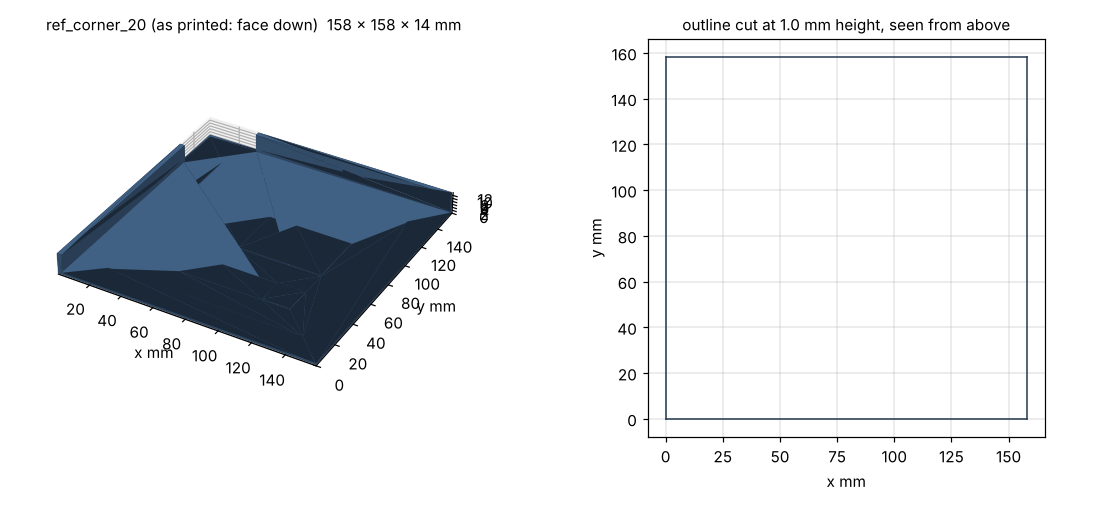
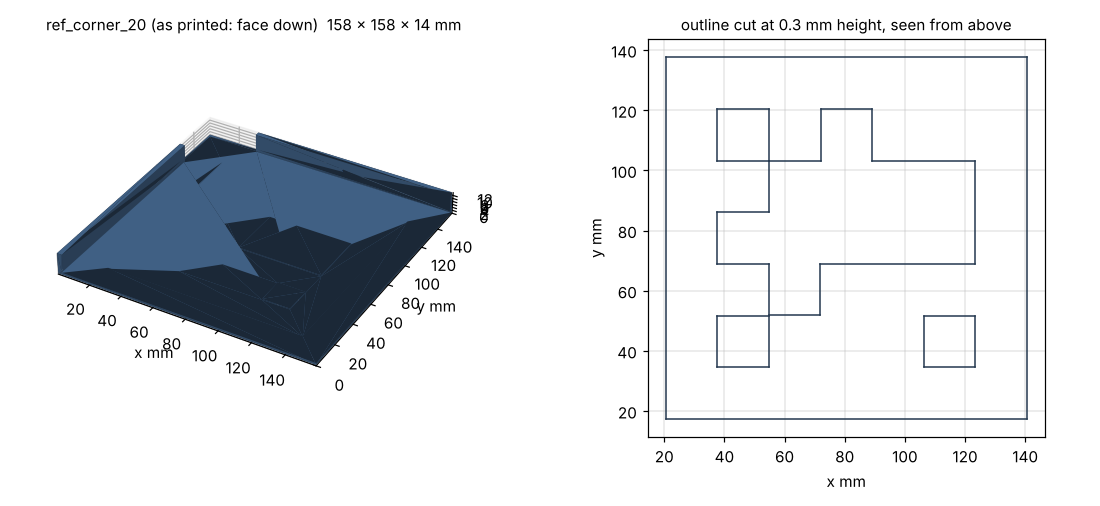
Risk fixes and corner tags, part 3: report e02-nov03-risk-fixes-corner-tags (premise, what was built, sizing, fit and run tables, print check, Nick's steps, questions, two sweeps), 20 pictures with index lines, time-tracker row; fixes from the pictures: Measure's result hidden by a null in the simul
Claude-Session: https://claude.ai/code/session_016gn8BDw2z1DBU9KvexE4En

diff --git a/tools/fleet/mission_control.html b/tools/fleet/mission_control.html
@@ -655,7 +655,7 @@ function camerasTable() {
       <button class="p" id="tmeasure">Measure</button>
       ${r ? `<div style="margin-top:10px"><div class="kpis"><div class="kpi"><b>${r.size_cm[0].toFixed(1)} x ${r.size_cm[1].toFixed(1)}</b><span>table (cm)</span></div><div class="kpi"><b>${Object.keys(r.stickers || {}).length}</b><span>production points</span></div><div class="kpi"><b>${r.reads}</b><span>tag reads</span></div></div>
         <ul class="small">${(r.words || []).map(w => `<li style="${/WARNING|DISAGREE|NOT/.test(w) ? "color:var(--warn)" : ""}">${esc(w)}</li>`).join("")}</ul>
-        ${r.sim_truth ? `<p class="small muted">Simulator truth: floor error median ${esc(Object.entries(r.sim_truth).filter(([k, v]) => typeof v === "object").map(([k, v]) => k + " " + v.median_cm + " cm (worst " + v.worst_cm + ")").join(", "))}; stickers worst ${esc(r.sim_truth.stickers_worst_cm)} cm.</p>` : ""}</div>` : ""}</div>
+        ${r.sim_truth ? `<p class="small muted">Simulator truth: floor error median ${esc(Object.entries(r.sim_truth).filter(([k, v]) => v && typeof v === "object" && v.median_cm != null).map(([k, v]) => k + " " + v.median_cm + " cm (worst " + v.worst_cm + ")").join(", "))}; stickers worst ${esc(r.sim_truth.stickers_worst_cm ?? "-")} cm${r.sim_truth.side_tags_along_off_cm ? "; side tags along their edges off by " + esc(Object.entries(r.sim_truth.side_tags_along_off_cm).map(([k, v]) => k + " " + v + " cm").join(", ")) : ""}.</p>` : ""}</div>` : ""}</div>
     <div class="card"><h2>Measurements (checks, optional)</h2><p class="small muted">Typed values are compared with the cameras' own measure, never silently averaged. The site's table size is filled in.</p>
       <div class="row"><label class="lbl">Table length <input id="tl" class="n" value="${esc(tb.length_cm ?? "")}"> cm</label><label class="lbl">width <input id="tw" class="n" value="${esc(tb.width_cm ?? "")}"> cm</label></div>
       ${rc ? `<div class="row">${Object.entries(rc.sides || {}).map(([k, v]) => `<label class="lbl">Side tag ${v}'s middle, from corner ${k} along the edge <input id="tal_${v}" class="n" value="${esc(((T.typed || {}).along || {})[v] ?? "")}"> cm</label>`).join("")}</div>` : ""}

diff --git a/tools/pi/selfcheck.py b/tools/pi/selfcheck.py
@@ -154,8 +154,10 @@ def check_site(R):
         R.add("PASS" if h is not None else "WARN", "roof height", "%s cm" % h if h is not None else
               "not measured yet (6.0 cm placeholder): measure table to tag face, send it to Claude")
         rt = s.get("ref_tags") or {}
+        import ref_tags as RT
         R.add("PASS" if rt.get("use", True) and rt else "WARN", "reference tags",
-              "%s ids %s, %s cm; corner clicking %s" % (rt.get("family", "tag25h9"), rt.get("ids"), rt.get("tag_cm"),
+              "%s ids %s, %s cm; corner clicking %s" % (rt.get("family", "tag25h9"),
+                                                      ", ".join(str(i) for i in RT.ids(rt)), rt.get("tag_cm"),
                                                       "ON" if s.get("corner_clicks", True) else "off")
               if rt else "none in the site profile (corners are clicked by hand)")
     return s
@@ -228,13 +230,19 @@ def check_cameras(R, site=None):
               v["words"] + ". Name it: python3 tools/pi/camnames.py --set %s \"<name>\" <port>" % r)
 
 
-def check_disk(R):
+def check_disk(R, site=None):
     import diskguard as DG
     d = DG.drive_mount()
+    env = dict(os.environ)
+    if site and not env.get("MIRLT_CAPTURE"):
+        # run by hand (not through the launcher): the site's picture size and rate, as the recorder will use them
+        cap = site.get("capture") or {}
+        env["MIRLT_CAPTURE"] = "--width %d --height %d" % (cap.get("width", 640), cap.get("height", 480))
+        env["MIRLT_CAPTURE_FPS"] = str(cap.get("fps", 25))
     c = DG.free_gb(os.path.join(REPO, "logs"))
     R.add("PASS" if (c or 0) >= 5 else "WARN" if (c or 0) >= DG.CARD_STOP_GB else "FAIL", "SD card",
           "%.1f GB free" % (c or 0))
-    line, low = DG.rec_words(d)
+    line, low = DG.rec_words(d, env)
     R.add("WARN" if (low or not d) else "PASS", "video space", line)
 
 
@@ -277,7 +285,7 @@ def main(argv=None):
     except Exception as e:      # noqa: BLE001
         R.add("FAIL", "site", str(e)[:100])
     for f in (lambda: check_token(R, net=not a.no_net), lambda: check_tailscale(R), lambda: check_clock(R),
-              lambda: check_cameras(R, site), lambda: check_disk(R), lambda: check_power(R), lambda: check_address(R)):
+              lambda: check_cameras(R, site), lambda: check_disk(R, site), lambda: check_power(R), lambda: check_address(R)):
         try:
             f()
         except Exception as e:      # noqa: BLE001

diff --git a/hardware/dock/build_ref_tiles.py b/hardware/dock/build_ref_tiles.py
@@ -371,7 +371,7 @@ def main(argv=None):
     section_png(os.path.join(B.PNG, "ref_tile_lip_section.png"))
     roof_png(os.path.join(B.PNG, "roof_tag_tile.png"))
     B.preview("ref_corner_20 (as printed: face down)", parts["ref_corner_20"],
-              os.path.join(B.PNG, "ref_corner_tile_3d.png"), plan_z=1.0)
+              os.path.join(B.PNG, "ref_corner_tile_3d.png"), plan_z=0.3)
     print("\nwhat the parts fix (tools/fleet/ref_tags.py must match):")
     print("  reference tag middle: %.2f mm in from each edge line the tile hooks (OFFSET_CM %.3f)" % (
         OFFSET_MM, RT.OFFSET_CM))

diff --git a/docs/build-reports/e02-nov03-risk-fixes-corner-tags.md b/docs/build-reports/e02-nov03-risk-fixes-corner-tags.md
@@ -1,0 +1,277 @@
+# Risk-review fixes and corner AprilTags (2 Nov evening, simulator, tests and CAD only)
+
+## Premise
+
+Two jobs Nick approved for the school conference-table session:
+
+1. **Six fixes from the independent risk review** (`pre-session-risk-review.md`, 2 Nov): the emergency stop missed
+   the school robots; `mc` printed the home Pi's address and died with the SSH window; a typo in the site file
+   silently turned school into home; the refit after a run blocked the screen for minutes; the disk warnings assumed
+   640 x 480; the new-Pi steps had gaps.
+2. **Corner AprilTags** instead of clicking the table's corners: six flat tags on the table (four corners, two in the
+   middle of the long sides where the cameras overlap), 3D printed with a lip that hooks the table so the part fixes
+   where the tag is, plus a paper option; the software finds them by itself, ties the two cameras together, takes
+   corner 1 as (0, 0), and watches them during runs for a bumped camera. Drop-in roof tag tiles for the new roof.
+
+Nothing touched a robot or a Pi. Everything below is simulator, unit tests, CAD and drawn pictures.
+
+## What was built
+
+### Part 1: the six fixes
+
+| # | Fix | Where | Old way kept |
+|---|---|---|---|
+| 1 | `./run-fleet-pi.sh stopall` now sends `stop` to the site's listed robots, **broadcasts** `stop` to the whole WiFi (255.255.255.255 and each network's own broadcast address), and to **every robot heard** (each fleet program's link now notes the robots it hears in `~/.config/mirlt/heard_robots.json`; plus any robot answering within 1 s when the log port is free). A broken site file never blocks it | `tools/fleet/stop_all.py`, `tools/alvik_console.py` | `./run-fleet-pi.sh stopall listed` (`--only-listed`) |
+| 2 | The address shown is **this Pi's own**: Tailscale if up, else its WiFi address, else its name. `mc` starts Mission Control in **tmux session `mc`** (survives a closed window), prints the address, how to see it and how to close it. Hard-coded home addresses removed from the messages | `tools/fleet/pi_addr.py`, `run-fleet-pi.sh` (`mc`, `address`) | `mc here` (in the window); a site may pin an address (`pi.use_site_address`) |
+| 3 | A broken or missing site file **stops** every launcher command with the file, the line, a caret under the spot and the likely mistake (e.g. "6.2, not 6,2"); wrong kinds of values are named. Mission Control and `mission_run` no longer fall back to home in silence | `tools/fleet/sites.py`, `run-fleet-pi.sh`, `mission_control.py`, `mission_run.py`, `tools/pi/camnames.py` | `site` and `stopall` still work with a broken file |
+| 4 | The refit after a run runs as **its own background process** (`tagcal_refit/status.json`: running / done / failed); the run ends at once. The **Refit button reuses** the run's result (or starts one in the background); the card fills in by itself | `site_fit.py` (`start_refit_bg`, `refit_status`), `mission_run.py --refit-bg`, `tag_job.py`, Mission Control | per site `auto_refit`: `background` (default) / `wait` (old) / `off` |
+| 5 | Disk floors and warnings **scale with picture size, rate and cameras**: the recorder's precheck and its warn/stop lines (minutes of video left), and the frames' floors. 1280 x 960 at 15 a second, two cameras: 14.4 GB an hour (home: 6.0, unchanged floors) | `tools/pi/camrec.py`, `tools/fleet/diskguard.py` | home's numbers are the same as before |
+| 6 | **New-Pi setup from a blank card**, every step specific (Imager settings, first boot, update, packages, clone, OpenCV, token, Tailscale, cameras, Mission Control); **`./run-fleet-pi.sh selfcheck`** tests it all with PASS / WARN / FAIL lines; cameras' stable `/dev/v4l/by-id` names shown | `docs/how-to/new-pi-setup.md`, `tools/pi/selfcheck.py`, `camnames.py` | - |
+
+**Packages, checked two ways (fix 6):** scanning the imports of every program the school site runs (38 modules,
+followed through their own imports) finds numpy, scipy, OpenCV, matplotlib (plus pandas for the heat tracker,
+reportlab for the tag sheets, pupil-apriltags only as the fallback); then all 38 imported cleanly in an **empty
+Python with only numpy, scipy, opencv-python-headless and matplotlib** installed.
+
+**/dev/v4l/by-id (fix 6):** not wired into the recorder. The launchers already find each camera by its name and USB
+port at every start (`camnames.py`), which is what by-id gives; the by-id names are now shown to check by eye
+(*Claude's call: the smaller change; say if you want the recorder to open them directly*).
+
+### Part 2: corner AprilTags
+
+| Part | What | Where |
+|---|---|---|
+| Layout | tag25h9 (the robots' family: one detector, the OpenCV 4.6 fix), ids **20-23 corners** (20 = corner 1 = (0, 0), counter-clockwise from above), **24** side 1-2, **25** side 3-4; never a robot's id (the site refuses a clash). **12 cm** black square, 1.75 cm white round it; the tag's middle **7.75 cm in from each edge** its tile hooks | `tools/fleet/ref_tags.py`, site profile `ref_tags` |
+| Fit | Each camera's plane and its tags' places from the tags themselves; cameras joined through a shared tag; each tag's turn on its tile **read**, not assumed (a paper tag may be turned); one small solve gives the table's length, width and the side tags' places along their edges; then the full fit with everything (robot tags, stickers, typed checks). Corner 1's tag defines (0, 0); with it hidden the frame comes from the others. Swapped tiles are named. The **robot roof tags give the camera-height cross-check** (both heights said) | `site_fit.py` (`ref_initial`, `height_check`) |
+| Setup | Mission Control's Cameras & table: tags found by themselves (orange in the pictures), stickers still clicked by number, typed coordinates still checks; a typed side-tag place is a check too. **Corner clicking is a switch** (site `corner_clicks`: off at school, on at home; a tick-box on the page). Measure turns the tiles into **keep-out areas** (points moved off them) | `tag_setup.py`, `tag_job.py`, `production.py`, Mission Control |
+| Bump watch | Every 5 s each camera's reference tags are looked for where the setup saw them; a median shift over 3 px two checks in a row says **WARNING: camera X has MOVED** on the run screen (`ref_watch.csv`, `camera_moved` event, the run's summary). The run is not stopped (Nick decides) | `tag_bridge.py`, `mission_run.py` |
+| Simulator | Tag cameras draw the tiles; `--hide-ref`, `--bump CAM@T:DEG`, `--no-refs`, `--corner-clicks` | `tools/sim/tag_cam.py`, `mission_run.py`, `tag_setup.py --dry` |
+| Printed tiles | 4 corner tiles (L-shaped lip), 2 side tiles (straight lip), 2 drop-in roof tiles (keyed); STLs, previews, print sheet page 2 | `hardware/dock/build_ref_tiles.py`, `hardware/print_sheet_tiles.py`, `hardware/PRINT_SHEET.pdf` |
+| Paper | Letter, one tag a page, exact scale, 15.5 cm cut line, EDGE marks, 10 cm ruler, id and place | `docs/hardware/reference-tags-letter.pdf` |
+
+**One change from the spec (Claude's):** the tiles print **face down**, so the colour change is **black first, then
+white at 0.6 mm** (not white then black at 1.2 mm). A lip underneath means a tag-up print needs support under the
+whole tile; face down the lips stand up from the bed and nothing needs support. Turned over, the part is exactly the
+check tile's build: 1.2 mm white base, 0.6 mm raised black squares. The roof tiles have no lip and print tag-up like
+the check tile. Marker option unchanged.
+
+## Tests and data
+
+### Sizing: why 12 cm
+
+![The corner tile from above](../screenshots/2026-11-02/corner-tags-feature-cad-corner-tile-from-above-tag-77mm-from-both-edges.png)
+
+The corner tile on the table: its lip (dashed) hooks the corner, so the tag's middle (+) is 77.5 mm in from both edges.
+
+| Tag | 1280 x 960, lens 175 cm | 1280 x 960, 200 cm | 640 x 480, 175 cm |
+|---|---|---|---|
+| 8 cm | 5.1-6.2 px a cell | 4.6-5.3 | 2.6-3.1 (marginal) |
+| **12 cm** | **7.7-9.3** | 6.8-7.9 | **3.8-4.6** |
+| 15 cm | 9.6-11.6 | 8.5-9.9 | 4.8-5.8 |
+
+<sub>Pixels per tag cell at the six tags' spots in the school camera layout (two cameras straight down, 40 cm overlap,
+74 deg lens; `python3 tools/fleet/ref_tags.py sizing`). The robots' tags read in 100 % of synthetic pictures from about
+3.5 px a cell when soft and tilted (conference report, section 1).</sub>
+
+**Conclusion (Claude's):** 12 cm keeps a margin even if the cameras turn out to be 640 x 480, and the tile (15.5 cm)
+still fits a 180 mm printer bed.
+
+### The fit from the tags (simulator truth)
+
+| Setup | Floor error, median / worst (cm) | Table (cm) | Side tags along edge, error (cm) |
+|---|---|---|---|
+| Tags only, no clicks (CLI dry run A) | 0.06 / 0.21 | 396.2 x 167.6 | 0.03 |
+| Tags only, corner 1's tag hidden (run B) | 0.05 / 0.24 | 396.2 x 167.6 | 0.04 |
+| Tags only, Mission Control practice room | 0.18-0.43 / 1.4 | 396.2 x 167.6 | - |
+| ... its refit after one run (background, 41 s) | 0.06-0.07 / 0.15 | 396.2 x 167.6 | - |
+| Old way: corner clicks, no tags (run D) | 0.19-0.33 / 0.79 | 396.2 x 167.6 | - |
+| Earlier report, clicks (11 layouts) | 0.2-2.9 / 0.6-8.0 | within 0.5 | - |
+
+<sub>Floor error: where the fitted and the true camera put a grid over the table, at the table and at the roof
+tags' height (`site_fit.compare`). Runs A-D: `mission_run.py --dry --tracking tags --site school-conference`; the
+practice room: Mission Control through Playwright. One run each. Unit tests add: no robots and nothing typed (table
+within 1.5 cm, worst point 2 cm), a paper tag turned a quarter (read, fits), two corner tiles swapped (named).</sub>
+
+![Measure from the reference tags](../screenshots/2026-11-02/corner-tags-feature-mc-measure-from-reference-tags-no-clicks-sim.png)
+
+Mission Control after Measure with corner clicking off: the six tags found (orange), the table's size, the side tags'
+places, the height cross-check and the simulator's truth.
+
+- **The height cross-check does its job.** Flat tags cannot tell a straight-down camera's height from its zoom; the
+  roof tags can, but two robots standing still pin it only loosely: in the practice room the heights came out 236 and
+  162 cm (true 200), worst 1.4 cm at the roofs' height. The refit after one run brought them to 201 and 200 cm, worst
+  0.15 cm. So the order stays: Measure, one run, Refit, Use.
+
+### Runs through the whole chain (simulator)
+
+| Run | What | Result | Points | Closest robots / edge (cm) | Camera vs truth, median / p95 (cm), Alpha, Bravo |
+|---|---|---|---|---|---|
+| A | tags only, production, refit (old blocking way) | done, 72 / 69 s | 6 of 6, both home | 16.6 / 16.7 | 0.08 / 0.14, 0.10 / 0.20 |
+| B | corner 1 hidden; camera 2 knocked 1 deg at 30 s | done, 72 / 69 s; **warning at the second check** | 6 of 6 | 16.6 / 16.7 | 1.6 / 1.7, 3.2 / 3.7 (the bump: why it warns) |
+| C | **feel-out, then production**, refit in the background | feel-out: all 4 sides agree; done, 72 / 69 s; refit done 44 s later | 6 of 6 | 16.6 / 16.7 | 0.07 / 0.15, 0.10 / 0.22 |
+| D | old way: no tags, corner clicks | done, 72 / 69 s | 6 of 6 | 16.6 / 16.5 | 0.18 / 0.31, 0.26 / 0.36 |
+| MC | Mission Control: Measure, Plan, Run (feel-out unticked), refit | done; refit in the background, button reused it in 0.1 s | 6 of 6 | - | 0.26, 0.21 (median) |
+
+<sub>No contact and nothing over an edge in any run. Camera vs truth: the tag bridge's fixes against the simulator's
+true poses (`line_check.py`).</sub>
+
+![Bumped camera](../screenshots/2026-11-02/corner-tags-feature-chart-bumped-camera-reference-tag-shift-sim.png)
+
+In run B the knocked camera's reference tags jumped from 0.3 to 17 px off where the setup saw them, and the warning
+came at the next check; the other camera's tags stayed at 0.3 px.
+
+### Printing
+
+![Lip sections](../screenshots/2026-11-02/corner-tags-feature-cad-lip-section-19-and-38mm-tops-face-down-print.png)
+
+The lip on the thinnest and thickest tops assumed (19 and 38 mm), and the face-down print with its colour change.
+
+- **Nozzle:** a reference cell is 17.1 mm, 38 lines of a 0.4 mm nozzle; a printed corner rounds by about 0.23 mm (1.3 %
+  of a cell). Roof cell 11.4 mm, 25 lines.
+- **Raised squares, their walls and a light's shadow** (light 45 and 30 deg up), and 0.1 mm over-extrusion with
+  rounded corners: every tag read in every picture (35 cases x 3 pictures); the tag's middle within 0.13 cm of its true
+  place (flat paper: within 0.07 cm). From overhead the raised walls show as a 0.2 px sliver.
+
+![Paper against printed](../screenshots/2026-11-02/corner-tags-feature-printcheck-raised-cells-and-shadow-vs-paper-sim.png)
+
+Corner 3's tag in the simulated camera at 1:1 pixels: flat paper beside raised squares with a low light's shadow.
+
+<sub>`python3 tools/fleet/ref_printcheck.py`; data `docs/results/ref-tags/printcheck.csv`. Every part a valid solid,
+fits a 180 mm bed (`build_ref_tiles.py` checks).</sub>
+
+### Part 1 checks
+
+- **Stop:** with the school site, `stopall` printed the empty site list, the broadcast and each heard robot; a heard
+  robot's address received exactly 3 `stop`s; `stopall listed` reached only the listed address (tests).
+- **Site file:** the "6,2" typo stops `check` with line 13, a caret under the spot and the fix; a missing site stops
+  `mission_run` instead of falling back to home.
+- **Refit:** run C's run ended at once and its refit finished 44 s later in its own process; Mission Control's button
+  reused it in 0.1 s; a refit process that died is said as failed.
+- **Disk:** at 1280 x 960, 15 a second, two cameras: 1.2 GB per 10 min a camera, warn under 2.4 GB, stop under 0.72 GB
+  (home: 1.0 / 0.3 as before).
+
+### Problems found and fixed
+
+- Mission Control's Measure result did not show: a `null` in the simulator-truth line broke the page
+  ([picture](../screenshots/2026-11-02/corner-tags-problem-mc-measure-result-not-shown-null-in-simulator-truth-sim.png)).
+- The self-check printed the reference ids as "None" and the video space at 640 x 480 when run by hand
+  ([picture](../screenshots/2026-11-02/risk-fix-problem-terminal-selfcheck-ref-ids-none-and-video-space-at-640x480.png)).
+- The fit's layout used the key "side" for the side tags, the same name as camera 2: renamed before any run.
+- `sites.py`'s stricter errors broke one old test that expected a `ValueError`: the error is now both.
+
+**Tests:** `tools/fleet/tests/test_risk_fixes.py` (20) and `test_ref_tags.py` (17). Fleet, Pi and simulator suites
+(`python3 -m pytest tools/fleet/tests tools/pi/tests tools/sim/tests`): **684 passed, 9 skipped** (646 / 9 before).
+
+## Conclusion
+
+- **The emergency stop now reaches robots with no fixed address** (broadcast and heard), and nothing in the launcher
+  falls back to home in silence. (Tests and this machine; not on a Pi or a robot.)
+- **The corner tags replace the corner clicks and are better than them in the simulator:** worst floor error 0.2 cm
+  from the tags alone against 0.8 cm with clicks here (up to 8 cm in the earlier report), still 0.24 cm with corner 1's
+  tag hidden; the refit after one run still matters for the cameras' heights. (Claude's conclusion from 4 CLI runs and
+  1 page run, simulator truth; real pictures may differ.)
+- **A bumped camera is caught within 5-10 s** of the bump in the simulator.
+- **The printed tiles should read like paper** (simulated); the face-down print is the one design change from the spec.
+
+## What's next
+
+1. Print one corner tile first; check the lip on the school table and the black square with a ruler (120 mm).
+2. Give the roof team the pocket: 91.5 x 91.5 mm, 1.2 mm deep, back-left corner cut 8 mm at 45 deg.
+3. At school: the self-check, then Measure with the tiles, one run, Refit, Use.
+4. Agree with Jay that corner 1 (tag 20) is the (0, 0) both teams measure stickers from.
+
+## Nick's steps
+
+### A. Tonight, the print job (laptop)
+
+1. Open `hardware/PRINT_SHEET.pdf` (page 2 is new) and send it with the 8 STL files in `hardware/dock/stl/`
+   (`ref_corner_20.stl` to `ref_corner_23.stl`, `ref_side_24.stl`, `ref_side_25.stl`, `roof_tag_0.stl`,
+   `roof_tag_1.stl`) to whoever prints them. The sheet says the colour order: **tiles black first, change to white at
+   0.6 mm; roof tiles white first, change to black at 1.2 mm.**
+2. No printer in time: print `docs/hardware/reference-tags-letter.pdf` at **100 % / Actual size** on matte paper (6
+   pages). Check the ruler reads 10.0 cm and a black square 12.0 cm. Cut on the dashed square. Glue each on thin card.
+
+### B. The new Pi from a blank card
+
+Follow `docs/how-to/new-pi-setup.md` from the top (about 1 hour, mostly waiting). It ends with:
+```
+./run-fleet-pi.sh selfcheck
+```
+You should see one line per item and, last, `... 0 FAIL. Ready.` Any FAIL line says what to type.
+
+### C. At school, before anyone watches (the Pi, then the laptop's browser)
+
+1. Put the tiles on: **20 on corner 1** (the corner you and Jay agreed is 0,0), then 21, 22, 23 going round
+   counter-clockwise seen from above; **24** on the middle of the long side from corner 1 to 2, **25** on the middle of
+   the other long side. Each lip against the table's edge, the tile pressed flat. Paper: the sides marked EDGE flush
+   with the table's edges.
+2. In the blue PowerShell window, type `ssh nick@mirlt-school.local` and press Enter (password), then:
+   ```
+   cd alvik-fleet-capstone
+   ```
+   ```
+   git pull
+   ```
+   ```
+   ./run-fleet-pi.sh mc
+   ```
+   You should see `Mission Control is open: http://...:8095`. Type that address in Chrome on the laptop. You may close
+   the blue window; Mission Control keeps running.
+3. In Mission Control, **Cameras & table**: press **Take pictures**. You should see orange outlines with
+   "20 corner 1", "21 corner 2" and so on in the two pictures: every tile in at least one picture, 24 and 25 in both.
+   Do **not** click the corners. Click the stickers by number, as before.
+4. Press **Measure**. You should see the table near 396.2 x 167.6 cm, "Reference tags read: ...", and "Every typed
+   measurement agrees". If a tile is not seen, its line says which: move the tile so a camera sees it, Measure again.
+5. Do one run, then **Refit from the last run** (it was already computed in the background: it shows at once), then
+   **Use the refit**.
+6. During runs, if the run screen says **WARNING: camera ... has MOVED**: press **Stop**, check the camera's mount,
+   then Cameras & table, **Take pictures**, **Measure** (a minute).
+7. Emergency stop from the Pi: `./run-fleet-pi.sh stopall`. The real last resort is still to pick the robot up.
+
+## Questions for Nick
+
+**Substantive**
+1. **Face-down printing** (black first, white at 0.6 mm): fine with you and the print tech? The other ways need
+   supports under the whole tile or a separate lip piece glued on.
+2. **Which corner is (0, 0)**: please agree with Jay which table corner gets tile 20, and that his stickers are
+   measured from there (x along the long side to corner 2).
+3. **A bumped camera only warns** (the run goes on). Should it stop the run instead, or hold the robots seen only by
+   that camera?
+4. **The roof pocket** (91.5 mm, 1.2 mm deep, a keyed corner): does it fit what the RFID team is designing (Jay's RFID
+   tag under the roof)?
+
+**Other**
+5. Tag size 12 cm (sizing above): fine, or smaller tiles to keep more of the table free?
+6. Corner lips start 30 mm from the corner (fits a corner rounded up to 30 mm). Is the school table's corner square?
+7. The recorder does not open cameras by their `/dev/v4l/by-id` name (the name-and-port lookup already does that job).
+   Want it anyway?
+
+## Sweep 1: new tests that may now be necessary
+
+- Board / school: one printed corner tile on the real table: the lip's fit, the tag read at the far corner on the real
+  cameras, its black square measured (120 mm).
+- Real pictures: the reference tags' corner error and the read-size factor (blur) against paper tags; glare on the
+  printed black (matte vs glossy filament).
+- Real cameras: the bump watch's still spread over an hour (vibration, heat, autofocus) to set the 3 px line.
+- Pi: `stopall` reaching a robot by broadcast on the school router (client isolation would block it); `mc` in tmux after
+  an SSH drop; the self-check on the fresh image.
+- Simulator: Measure with the robots in other places (the practice room's side-by-side homes gave 1.4 cm worst before
+  the refit); a tile knocked off its edge mid-run (a tag moved, not a camera: the watch would blame the camera).
+- Unit: the background refit on a Pi (time) and two refits started at once (the button while the run's own runs).
+
+## Sweep 2: possible inaccuracies in what this relied on
+
+- All pictures are drawn by the simulator (blur, noise, JPEG modelled; not glare, rolling shutter, a real lens).
+- The table is assumed 19-38 mm thick with square edges (Nick's "typical"); its corner radius is unknown (lips allow 30
+  mm). A bevelled top edge would move the tag a little off the 77.5 mm.
+- **Chosen numbers** (each noted in its code): tag 12 cm (DOE: 8 / 12 / 15 cm on the real table against fit error and
+  room on the table); white 1.75 cm; lip 3 mm x 12 mm; corner relief 30 mm; groove 0.8 mm; keep-out margin 1 cm; bump
+  line 3 px, two checks 5 s apart (DOE: a still camera's spread); roof pocket play 0.25 mm and wall 1.75 mm; key 8 mm;
+  listen 1 s and heard robots kept 24 h in `stopall`; disk warn 10 min and stop 3 min of video; the print check's
+  0.1 mm extrusion error, shadow 55 % grey, light 30-45 deg.
+- The disk rate scales the 640 x 480 measurement linearly with pixels and rate: an upper bound, not measured at 1280 x
+  960.
+- The tile's PLA weights (about 350 g in all) are from the STL volumes; print times are not estimated.
+- The Mission Control run's camera-vs-truth figures (0.26 / 0.21 cm) are medians only; that run's setup used the
+  practice room's own camera layout.
+- Every accuracy number here is from one simulator run per case.

diff --git a/docs/screenshots/index.md b/docs/screenshots/index.md
@@ -357,3 +357,23 @@ One line per picture: what it shows (feature or problem), and where it comes fro
 - `2026-11-02/feel-feature-mc-run-result-far-side-moved-in-8cm-production-starts-sim.png`: **feature.** The result as the production run starts by itself: far long side felt 7.5 cm in and moved, others within 0.3 cm, saved. Same report.
 - `2026-11-02/feel-feature-mc-second-run-skips-feel-out-saved-sim.png`: **feature.** The second Run on the same table and camera setup: the feel-out skipped, saved outline used. Same report.
 - `2026-11-02/feel-problem-mc-progress-counted-a-crawl-done-after-its-first-piece-sim.png`: **problem.** The progress bar counted a crawl done after its first 10 cm piece (fixed: only its end or an edge stop counts). Same report.
+- `2026-11-02/risk-fix-feature-terminal-stopall-site-broadcast-and-heard-robots.png`: **feature.** `stopall` on the school site: the site's list (none), a broadcast `stop` to the whole WiFi, and `stop` to each robot heard. Report e02-nov03-risk-fixes-corner-tags.
+- `2026-11-02/risk-fix-feature-terminal-mc-in-tmux-with-own-address.png`: **feature.** `mc` starts Mission Control in tmux session mc and prints this machine's own address; `mc-stop` closes it. Report e02-nov03-risk-fixes-corner-tags.
+- `2026-11-02/risk-fix-feature-terminal-broken-site-file-stops-with-line-and-fix.png`: **feature.** A typo in the site file (6,2) stops the launcher with the file, line, the spot and the fix. Report e02-nov03-risk-fixes-corner-tags.
+- `2026-11-02/risk-fix-problem-terminal-selfcheck-ref-ids-none-and-video-space-at-640x480.png`: **problem.** The first self-check printed the reference ids as None and the video space at 640 x 480 when run by hand (fixed: the site's ids and picture size). Report e02-nov03-risk-fixes-corner-tags.
+- `2026-11-02/risk-fix-feature-terminal-selfcheck-pass-warn-fail-lines.png`: **feature.** The new Pi's self-check, one PASS / WARN / FAIL line each (run on the build machine: its FAILs are no cameras, no v4l2-ctl). Report e02-nov03-risk-fixes-corner-tags.
+- `2026-11-02/corner-tags-feature-mc-cameras-table-reference-tags-found-corner-clicks-off-sim.png`: **feature.** Cameras & table: the six reference tags found by themselves (orange), corner clicking off, stickers clicked. Report e02-nov03-risk-fixes-corner-tags.
+- `2026-11-02/corner-tags-problem-mc-measure-result-not-shown-null-in-simulator-truth-sim.png`: **problem.** Measure's result did not show: a null in the simulator-truth line broke the page (fixed). Report e02-nov03-risk-fixes-corner-tags.
+- `2026-11-02/corner-tags-feature-mc-measure-from-reference-tags-no-clicks-sim.png`: **feature.** Measure from the reference tags with no corner clicks: table size, side tags' places, height cross-check, simulator truth. Report e02-nov03-risk-fixes-corner-tags.
+- `2026-11-02/corner-tags-feature-mc-production-map-tiles-kept-out-sim.png`: **feature.** Production planned on the measured table with the tiles as keep-out areas. Report e02-nov03-risk-fixes-corner-tags.
+- `2026-11-02/corner-tags-feature-mc-run-screen-reference-tags-in-both-cameras-sim.png`: **feature.** The Run screen during the production run, the reference tiles in both cameras' pictures. Report e02-nov03-risk-fixes-corner-tags.
+- `2026-11-02/corner-tags-feature-mc-refit-running-in-background-after-run-sim.png`: **feature.** After the run: the refit running in the background, nothing waiting for it. Report e02-nov03-risk-fixes-corner-tags.
+- `2026-11-02/corner-tags-feature-mc-refit-button-reuses-the-runs-refit-sim.png`: **feature.** Refit from the last run reuses the run's refit (0.1 s, nothing computed again). Report e02-nov03-risk-fixes-corner-tags.
+- `2026-11-02/corner-tags-feature-chart-bumped-camera-reference-tag-shift-sim.png`: **feature.** A camera knocked 1 deg mid-run: its reference tags jump 17 px and the warning is said; the other camera stays at 0.3 px. Report e02-nov03-risk-fixes-corner-tags.
+- `2026-11-02/corner-tags-feature-cad-corner-tile-from-above-tag-77mm-from-both-edges.png`: **feature.** Corner tile from above: the lip hooks the corner, the tag's middle 77.5 mm in from both edges. Report e02-nov03-risk-fixes-corner-tags.
+- `2026-11-02/corner-tags-feature-cad-side-tile-from-above.png`: **feature.** Side tile from above: a straight lip, 77.5 mm in from the edge. Report e02-nov03-risk-fixes-corner-tags.
+- `2026-11-02/corner-tags-feature-cad-lip-section-19-and-38mm-tops-face-down-print.png`: **feature.** Cuts through the lip on a 19 and a 38 mm top, and the face-down print with the colour change at 0.6 mm. Report e02-nov03-risk-fixes-corner-tags.
+- `2026-11-02/corner-tags-feature-cad-roof-tile-pocket-and-key.png`: **feature.** The drop-in roof tile in its pocket, one corner cut so it goes in one way only. Report e02-nov03-risk-fixes-corner-tags.
+- `2026-11-02/corner-tags-feature-printcheck-raised-cells-and-shadow-vs-paper-sim.png`: **feature.** A reference tag in the simulated school camera: flat paper against raised printed squares with a low light's shadow. Report e02-nov03-risk-fixes-corner-tags.
+- `2026-11-02/corner-tags-feature-paper-pdf-corner-1-page.png`: **feature.** The paper option, page for corner 1 (0, 0): exact scale, cut line, EDGE marks, 10 cm ruler. Report e02-nov03-risk-fixes-corner-tags.
+- `2026-11-02/corner-tags-feature-print-sheet-page-2.png`: **feature.** Print sheet page 2 for the print tech: the tiles, colours and order. Report e02-nov03-risk-fixes-corner-tags.

diff --git a/docs/time-tracker.md b/docs/time-tracker.md
@@ -78,3 +78,4 @@ overnight 2026-10-25 items were not estimated beforehand (one batch approved tog
 | 2026-11-02 | Conference table (Nick, top priority): site profiles (home unchanged), AprilTag robots (tag sizing on synthetic pictures under OpenCV 4.6 and 5, detector, tag-height geometry, tag bridge, facing by tags), the site fit (cameras, table, stickers from clicks + tags + typed checks; refit after a run), production runs (homes, points, go-home, sync spin), camera check-out, Mission Control's Cameras & table and Production screens and sync card, sync marks / NTP / pose timeline / external comparison, simulator tag cameras and practice room, tag sheet PDF, roof spec; 10 dry runs (6 production orders and faults), Playwright run through the page, 24 tests, 13 pictures | (not estimated: asked for at once) | about 2.1 h (15:35-17:42) | - | Most time went to the site fit (two still robots cannot fix focal length and height; the tags read 1.5-3.5 % small, now a fitted factor) and to two simulator limits (walls at 220 cm; a stale bridge). Found and fixed: OpenCV 4.6 kept the roof's square over the tag; a run_plan stop on a held robot's late step failure. **pkill by pattern used once (against the rule)**: `pkill -f sz46.py`, which also killed the shell running it; later leftover processes stopped by PID (one PID found with ps + grep, then killed by PID) |
 | 2026-11-02 | Low-battery fixes (approved 1-3 of the low-battery report) plus the robot rename JayA/JayB -> Alpha/Bravo (added mid-task): one battery floor (engine_checks, ladder, every run_plan, refusals print it, battery refusal a hold with no p95), holding loop (backoff 10/20/40/60 s with wake every 2 s, said once, clips only for new events, 10-min alert on screen / doe-status / events.csv), firmware 2026-10-29b (status tail, motor-board stale check; no voltage API in the Alvik library), motor-board firmware read (its own 20 % blink / 10 % stop), 13 tests incl. 2 simulator runs, 2 pictures | (not estimated: asked for at once) | about 0.8 h (17:38-18:25) | - | The full suite (7.5 min) ran twice. No pkill used; nothing killed |
 | 2026-11-02 | Feel out the table (Nick 18:33): surface check, 8 edge crawls split by halves, felt vs camera per side (moved in 2-10 cm, held past 10, never moved out), saved per site/table/camera setup, reach learned across sessions, Mission Control card and chain, simulator drop / true table / edge-miss, risk-review safety changes, keep-features switches; 8 simulator cases, 2 page runs, 18 tests, report, 7 pictures | (not estimated: assigned with a full spec) | about 1.6 h to the last run (18:40-20:15), plus the suite and push | - | a container restart cut the second page run short; the risk review and the keep-features rule arrived mid-build |
+| 2026-11-02 | Risk-review fixes 1-6 (stopall to every robot, the Pi's own address and mc in tmux, loud site-file errors, background refit reused by the button, disk floors scaled, new-Pi self-check and how-to) and corner AprilTags (reference-tag fit with no clicks, corner-click switch, keep-outs, bump watch, simulator tiles/hide/bump, 3D tiles with lips and roof drop-in tiles, paper PDF, print check, print sheet page 2); 37 tests, 4 CLI simulator runs, 1 Mission Control run through the page, 20 pictures | (not estimated: assigned with a full spec) | about 1.2 h (19:57-21:10) | - | The fit from tags worked on the first try; two problems found by the pictures (a page error on a null, two self-check lines). No pkill used; sessions closed by name (mcshots, mc) |
